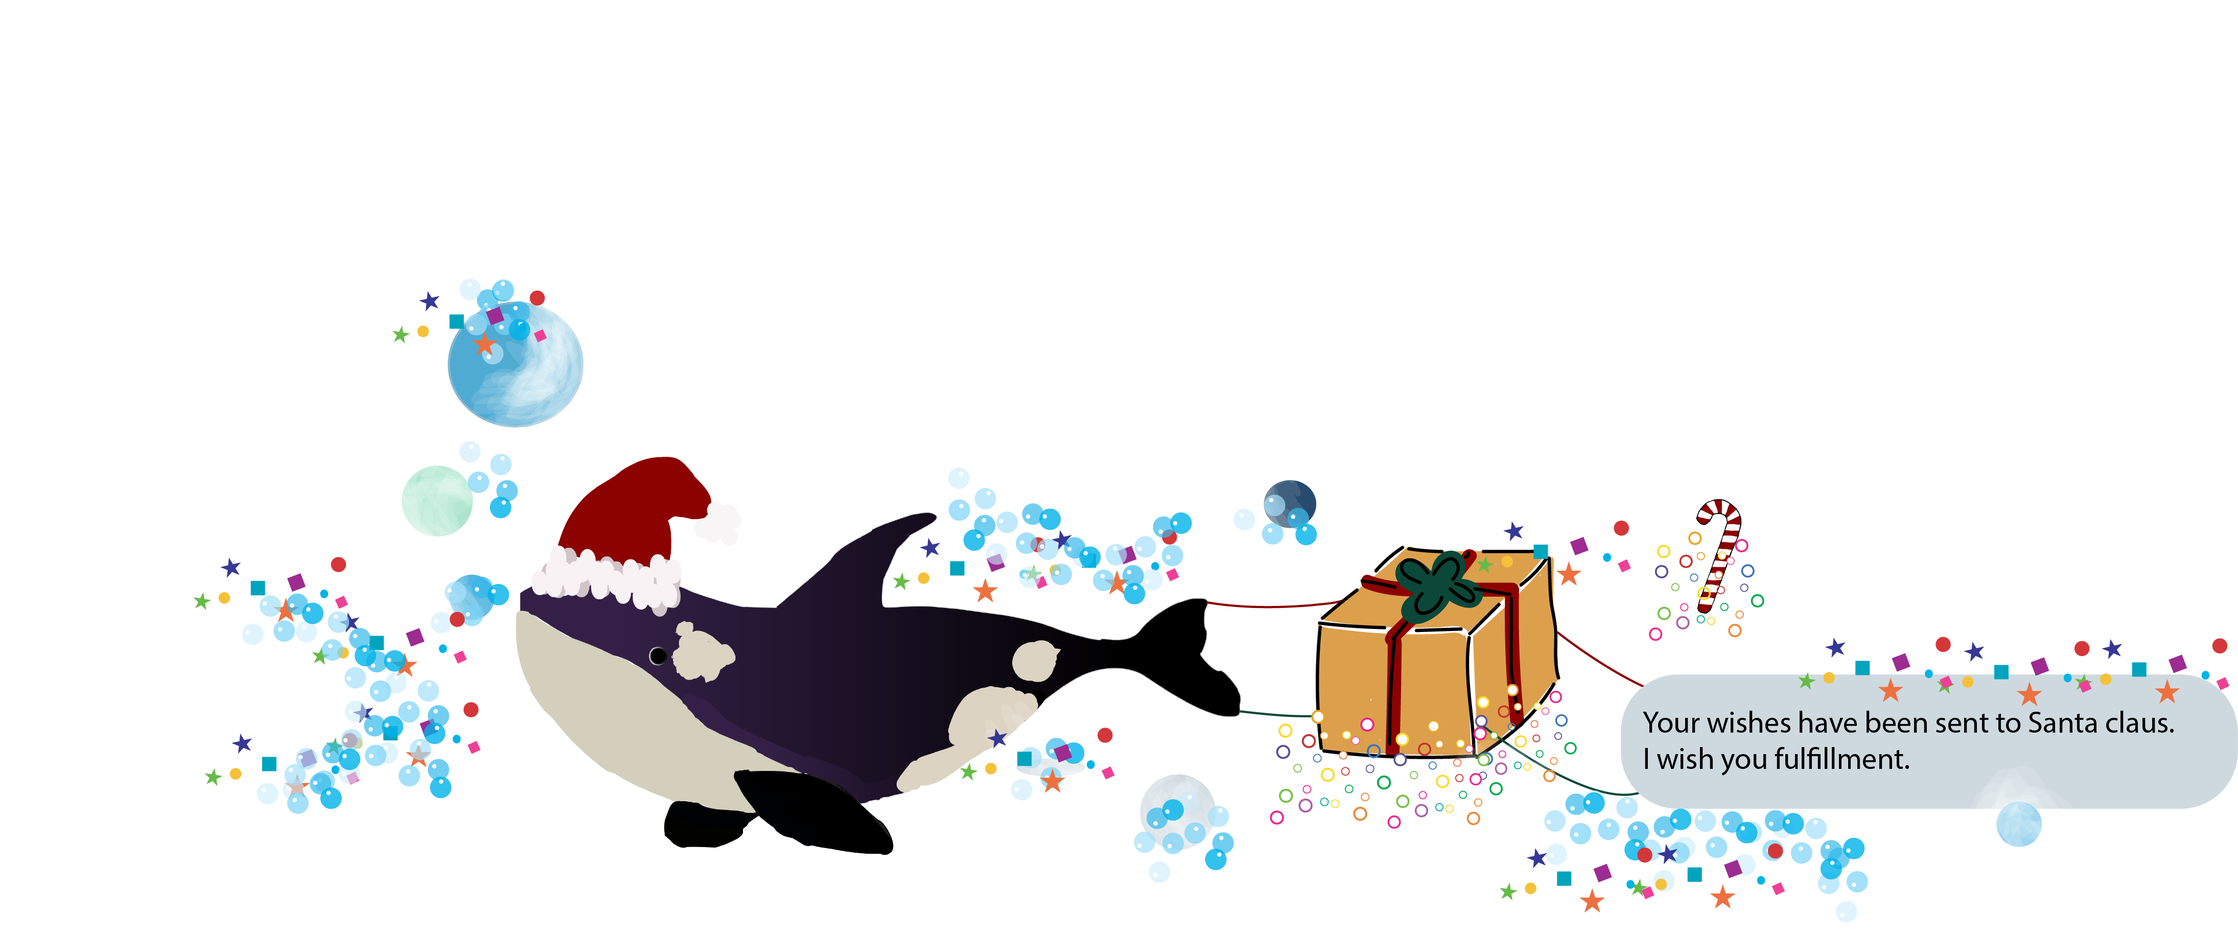
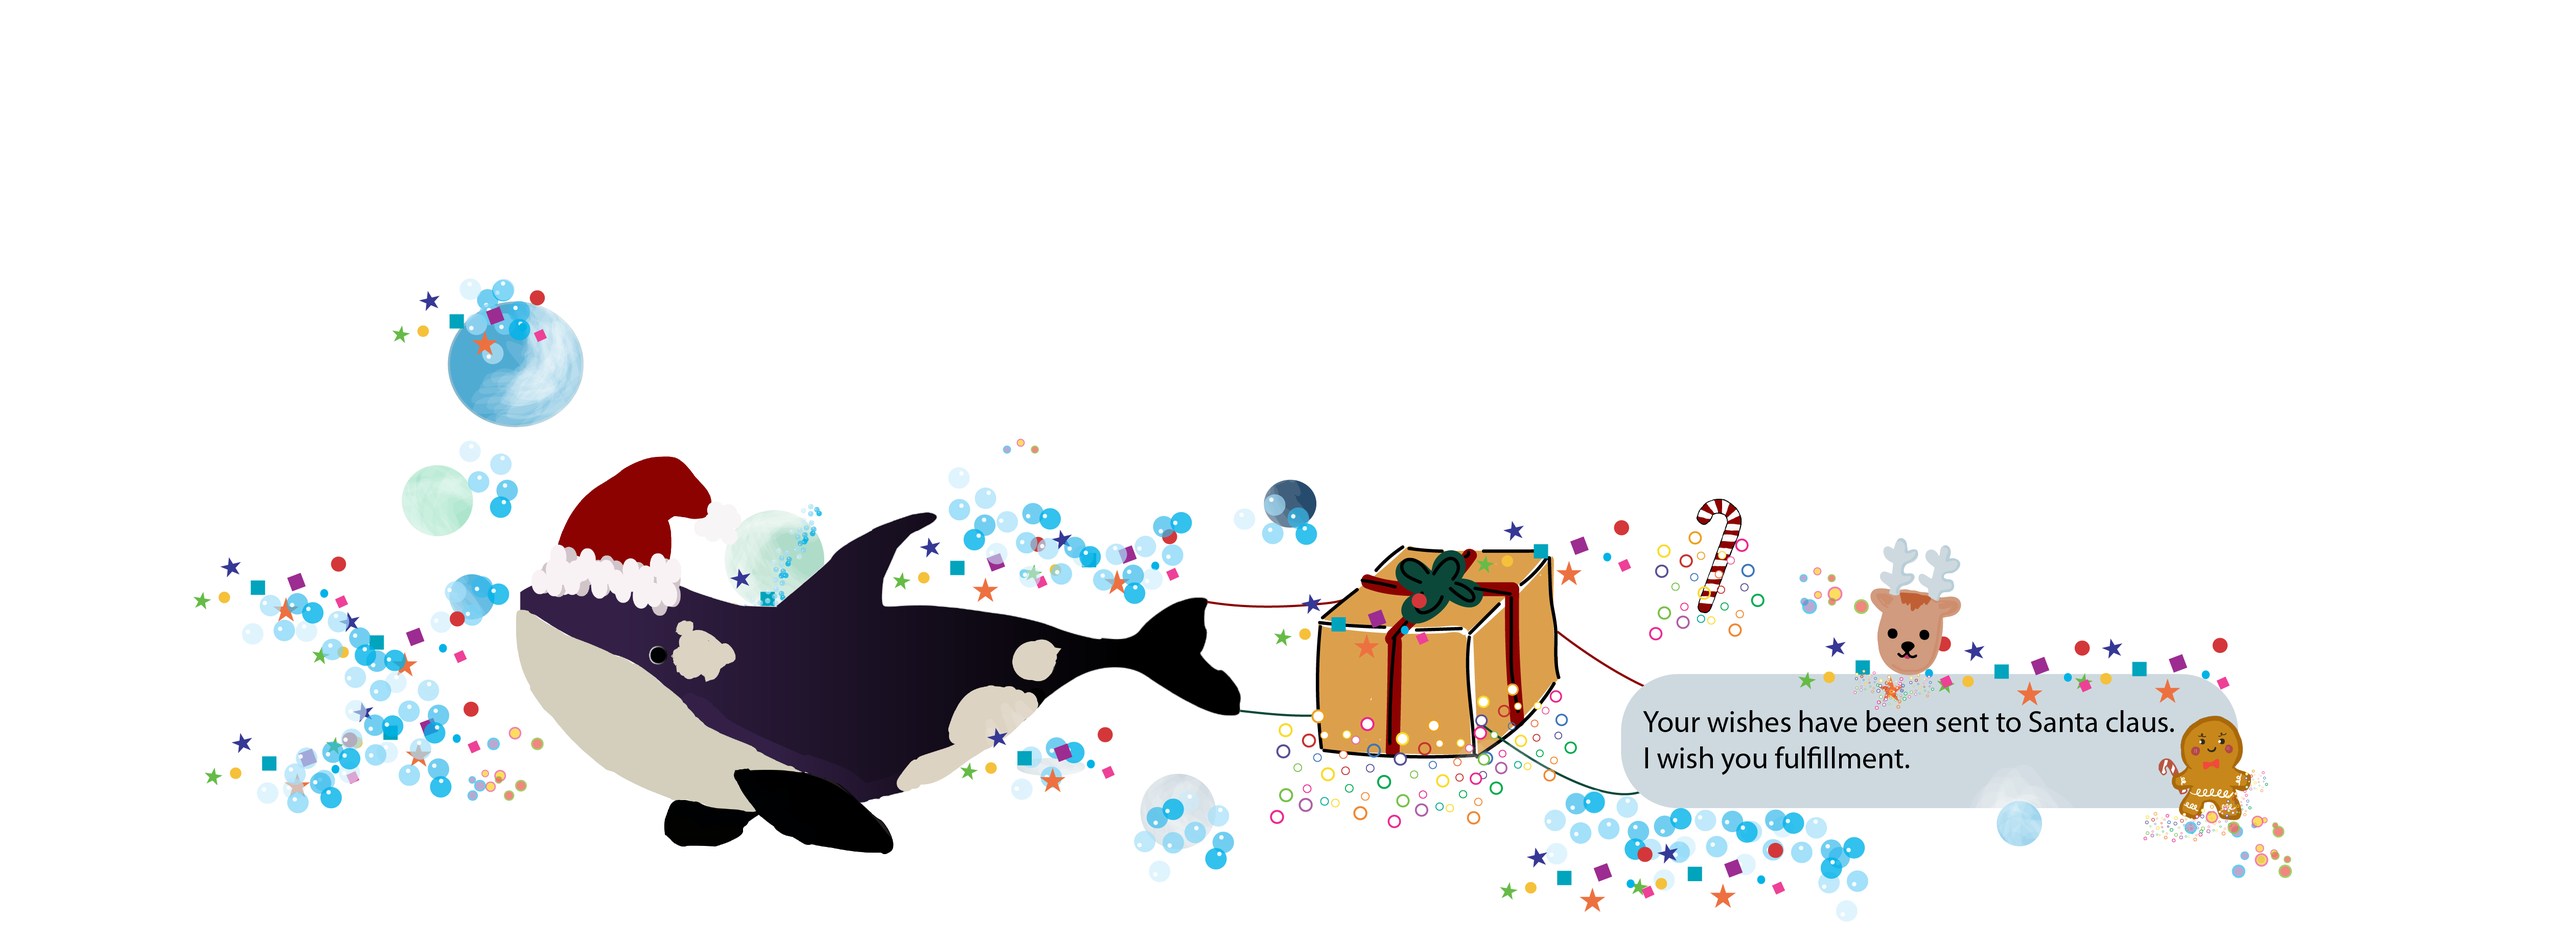
add countdown bg

Changed region(s): [[0.0621, 0.2797, 1.0, 0.9945]]

diff --git a/src/components/Navbar/Navbar.scss b/src/components/Navbar/Navbar.scss
@@ -9,15 +9,6 @@
     z-index: 99;
     background-color: #0B4839;
 
-    // &__logo {
-    //     width: 150px;
-    //     height: 150px;
-    //     margin-top: 5px;
-    //     margin-left: -3%;
-    //     background-image: url(./../../static/img/LOGO.png);
-    //     background-repeat: no-repeat;
-    //     background-size: 100%;
-    // }
 
     &__menu {
         font-family: 'Bebas Neue', cursive;

diff --git a/src/components/Countdown/Countdown.scss b/src/components/Countdown/Countdown.scss
@@ -3,7 +3,7 @@
     justify-content: center;
     align-items: center;
     min-height: 100%;
-    background: url('../../static/img/background/countdown-bg.png') no-repeat;
+    background: url('../../static/img/BG\ \(2\).png') no-repeat;
     background-position: center;
     background-color: #274B6D;
     background-size: 100%;;
